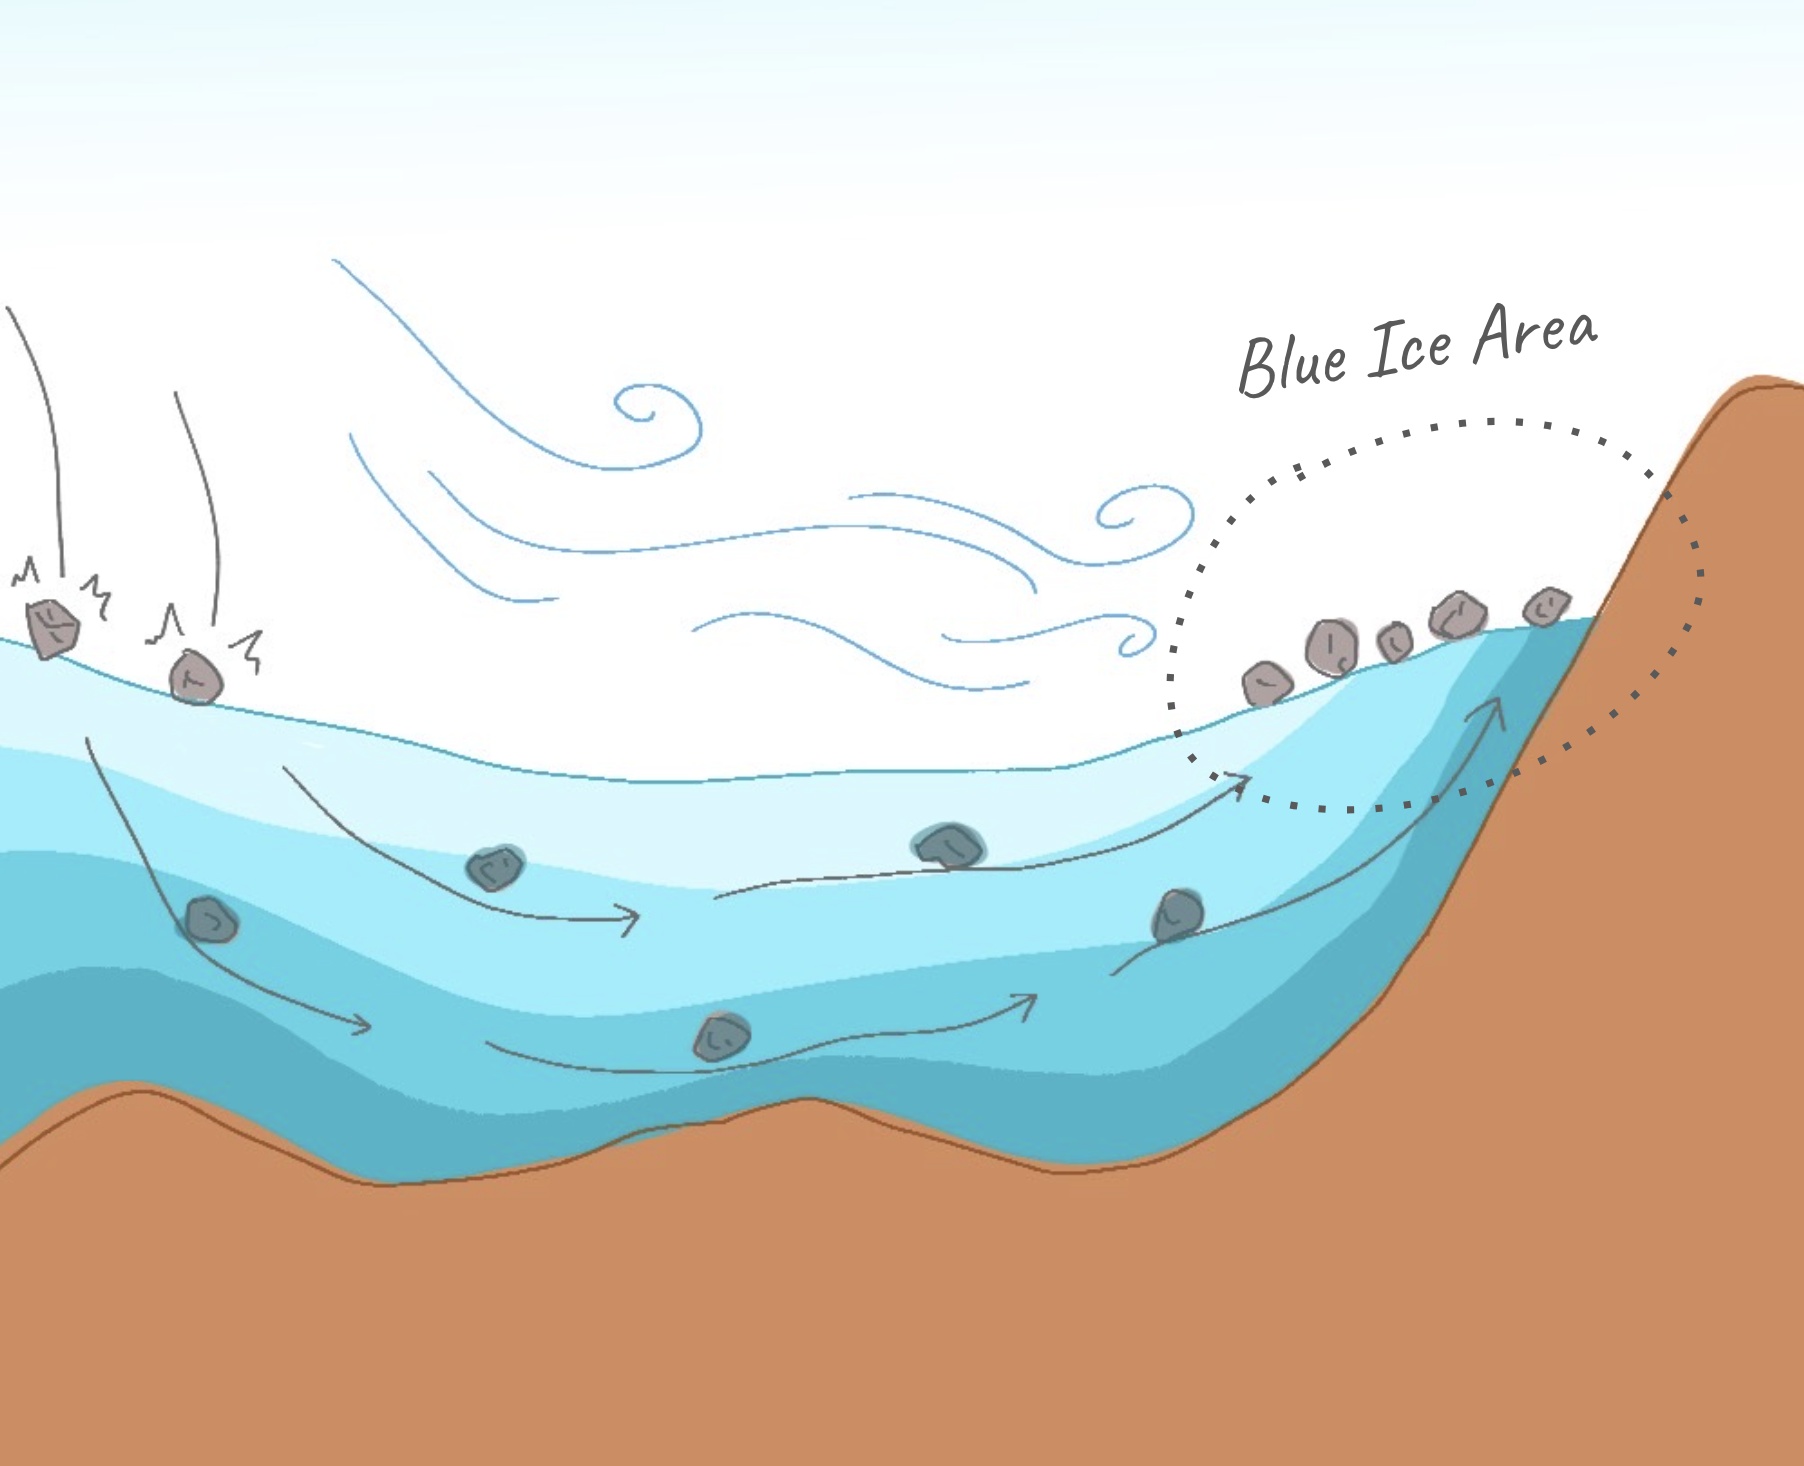
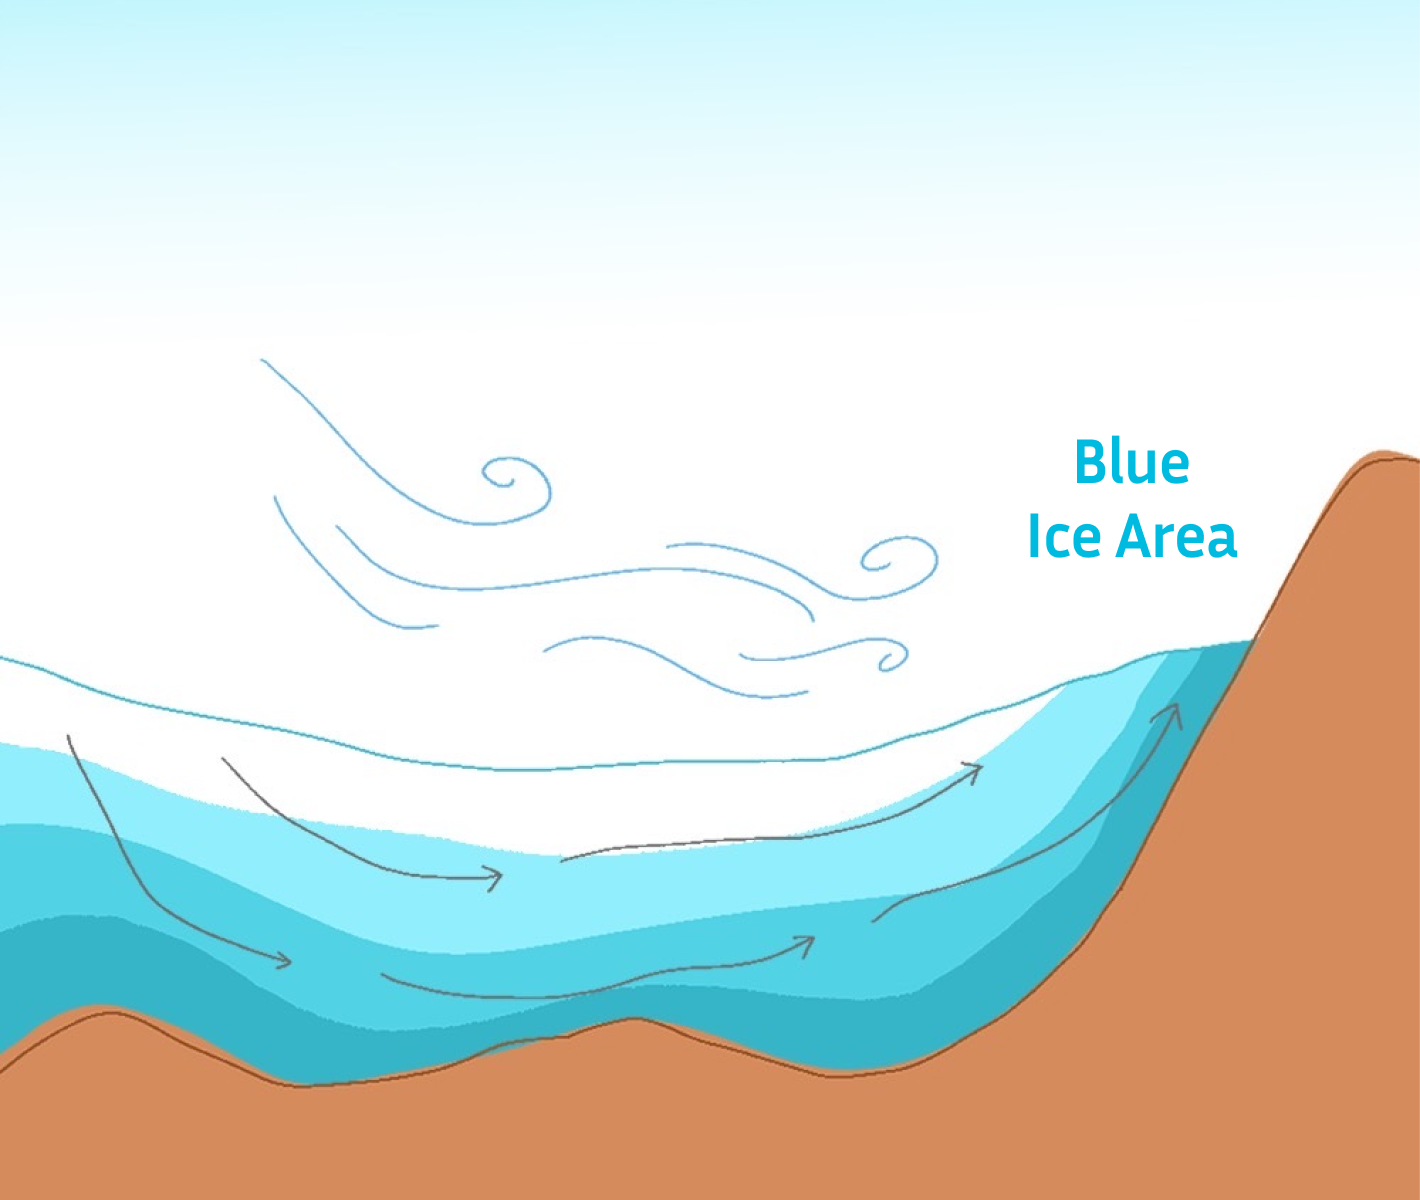
update descsription

diff --git a/interactive/code/app/app.js b/interactive/code/app/app.js
@@ -91,7 +91,7 @@ function buildScrollyTellingDiv() {
   const DescriptionDiv = TextDiv.append("div")
     .attr("id", "desc_div")
     .style("flex-grow", "1")
-    .style("font-size", "1.3rem")
+    .style("font-size", "1.5rem")
     .style("padding-left", "15px")
     .style("padding-top", "5px")
     .style("font-weight", "400");
@@ -114,7 +114,6 @@ function buildScrollyTellingDiv() {
     "antarctica_visual_contrast",
     "collection_spot",
     "elevation",
-    "snow_flow",
     "bia",
     "bia_picture",
     "bia_illustration",
@@ -333,7 +332,7 @@ function drawSiStats(descriptionDiv, imageDiv) {
   imageDiv.style("display", "flex").style("flex-direction", "row").style("align-items", "center");
 
   // Specimen
-  const siStatsLeft = imageDiv.append("div").style("flex", "1");
+  const siStatsLeft = imageDiv.append("div").style("flex", "1").style("text-align", "center");
   siStatsLeft
     .append("p")
     .attr("class", "si_stats_metrics_name")
@@ -341,10 +340,11 @@ function drawSiStats(descriptionDiv, imageDiv) {
     .style("font-size", "2rem")
     .style("color", "#9D9D9D")
     .style("margin", "0");
+
   siStatsLeft.append("p").attr("class", "si_stats_metrics_number").text("55,000+").style("font-size", "5rem");
 
   // Distinct Meteorite
-  const siStatsRight = imageDiv.append("div").style("flex", "1");
+  const siStatsRight = imageDiv.append("div").style("flex", "1").style("text-align", "center");
   siStatsRight
     .append("p")
     .attr("class", "si_stats_metrics_name")
@@ -386,7 +386,7 @@ function drawCollectedLocation(descriptionDiv, imageDiv, AttributedLocationData)
 
   const XofattrLocationChartMargin = { left: 220, right: 50 };
   const attrLocationChartWidth = 750;
-  const attrLocationChartHeight = 400;
+  const attrLocationChartHeight = 500;
 
   // Define X axis Scale
   const attrLocationChartXScale = d3
@@ -451,7 +451,7 @@ function drawAntarcticaClimate(descriptionDiv, imageDiv, antarcticaGeoJSON) {
   descriptionDiv
     .append("p")
     .html(
-      "What makes Antarctica such an ideal place for meteorites? <b>The first reason, of course, is the climate.</b> The extremely cold temperatures slow weathering, while the dry conditions limit chemical alteration, preserving meteorites in remarkably pristine condition for many years."
+      "Why Antarctica? <b>The first reason, of course, is the climate.</b> The extremely cold temperatures slow weathering, while the dry conditions limit chemical alteration."
     )
     .style("margin", 0);
 
@@ -485,7 +485,7 @@ function drawVisualContrast(descriptionDiv, imageDiv, antarcticaGeoJSON) {
   descriptionDiv
     .append("p")
     .html(
-      "<b>Another reason is the clear visual contrast between the land and the meteorite.</b> Most meteorites are dark in color, making them easier to spot on the white surface of the ice than on other surfaces such as vegetation, gravel, or urban areas."
+      "<b>Another reason is the clear visual contrast.</b> Most meteorites are dark in color, making them easier to spot on the white surface of the ice than on other surfaces such as vegetation, gravel, or urban areas."
     )
     .style("margin", 0);
 
@@ -526,7 +526,7 @@ function drawCollectionSpot(descriptionDiv, imageDiv, antarcticaGeoJSON, antarct
   descriptionDiv
     .append("p")
     .html(
-      "So, meteorites can be found anywhere in Antarctica? Interestingly, <b>their distribution across the continent is highly uneven.</b> According to the Smithsonian's collection, most meteorites are discovered in the highlighted areas shown on the map."
+      "So, meteorites can be found anywhere in Antarctica? Not really... <b>Smithsonian's collection spots of meteorites is highly uneven.</b> Most meteorites are discovered in the highlighted areas shown on the map."
     )
     .style("margin", 0);
 
@@ -546,32 +546,13 @@ function drawElevation(descriptionDiv, imageDiv, antarcticaGeoJSON, antarcticaMe
   descriptionDiv
     .append("p")
     .html(
-      "What is special about these areas? <b>First, they are relatively low-lying, which means less snow accumulation, leaving meteorites on the surface.</b> This makes meteorites easier to find compared to higher elevation regions with deeper snow cover."
+      "What is special about these areas? <b>One reason is that they are relatively low elevation areas. This means they have less snow accumulation compared to higher elevation areas, leaving meteorites on the surface more often.</b>"
     )
     .style("margin", 0);
 
   const elevationAntarcticaMapSVG = drawAntarcticaMap(imageDiv, antarcticaGeoJSON);
   drawElevationMap(elevationAntarcticaMapSVG, elevationData);
   addCollectionSpotHeatmap(elevationAntarcticaMapSVG, antarcticaMeteoritesData);
-}
-
-// ------------------------------
-// Snow Flow
-// ------------------------------
-
-function drawSnowFlow(descriptionDiv, imageDiv, antarcticaGeoJSON, antarcticaMeteoritesData, elevationData) {
-  removeExistingContents(descriptionDiv, imageDiv);
-
-  descriptionDiv
-    .append("p")
-    .html(
-      "<b>Low elevations also play a crucial role in meteorite accumulation.</b> In Antarctica, ice slowly but significantly flows from higher to lower elevations. Over thousands of years, this movement transports meteorites that have fallen in elevated regions down to lower areas, concentrating them over time."
-    )
-    .style("margin", 0);
-
-  const snowFlowAntarcticaMapSVG = drawAntarcticaMap(imageDiv, antarcticaGeoJSON);
-  drawElevationMap(snowFlowAntarcticaMapSVG, elevationData);
-  addCollectionSpotHeatmap(snowFlowAntarcticaMapSVG, antarcticaMeteoritesData);
 }
 
 // ------------------------------
@@ -584,7 +565,7 @@ function drawBlueIceAreas(descriptionDiv, imageDiv, antarcticaGeoJSON, biaMapDat
   descriptionDiv
     .append("p")
     .html(
-      "However, there is one definite characteristic of the area where meteorites have been collected in Antarctica....<b>They are Blue Ice Areas (BIA).</b>"
+      "However, there is another definite characteristic of these areas.<br><br><b>... They are Blue Ice Areas (BIA).</b>"
     )
     .style("margin", 0);
 
@@ -611,7 +592,7 @@ function drawBiaPicture(descriptionDiv, imageDiv) {
   descriptionDiv
     .append("p")
     .html(
-      "Blue Ice Areas, as the name suggests, are areas where the ice surface is blue. Typically, blue ice is hidden in the deep ice layer. In these areas, however, this layer is exposed at the surface due to climatic conditions and upward ice flow caused by topological factors."
+      "Blue Ice Areas are areas where <b>blue ice layers, normally hidden deep underground, are exposed on the surface.</b> This is a rare phenomenon mainly caused by unique terrain conditions that direct ice flows upward."
     )
     .style("margin", 0);
 
@@ -639,7 +620,7 @@ function drawBiaIllustartionDesc(descriptionDiv, imageDiv) {
 
   imageDiv
     .append("img")
-    .attr("src", "./data/bia_explain.png")
+    .attr("src", "./data/bia_explain2.png")
     .style("display", "block")
     .style("margin", "auto")
     .style("width", "600px");
@@ -770,7 +751,6 @@ async function main() {
     () => drawVisualContrast(descriptionDiv, imageDiv, antarcticaGeoJSON),
     () => drawCollectionSpot(descriptionDiv, imageDiv, antarcticaGeoJSON, antarcticaMeteoritesData),
     () => drawElevation(descriptionDiv, imageDiv, antarcticaGeoJSON, antarcticaMeteoritesData, elevationData),
-    () => drawSnowFlow(descriptionDiv, imageDiv, antarcticaGeoJSON, antarcticaMeteoritesData, elevationData),
     () => drawBlueIceAreas(descriptionDiv, imageDiv, antarcticaGeoJSON, biaMapData),
     () => drawBiaPicture(descriptionDiv, imageDiv),
     () => drawBiaIllustartionDesc(descriptionDiv, imageDiv),
